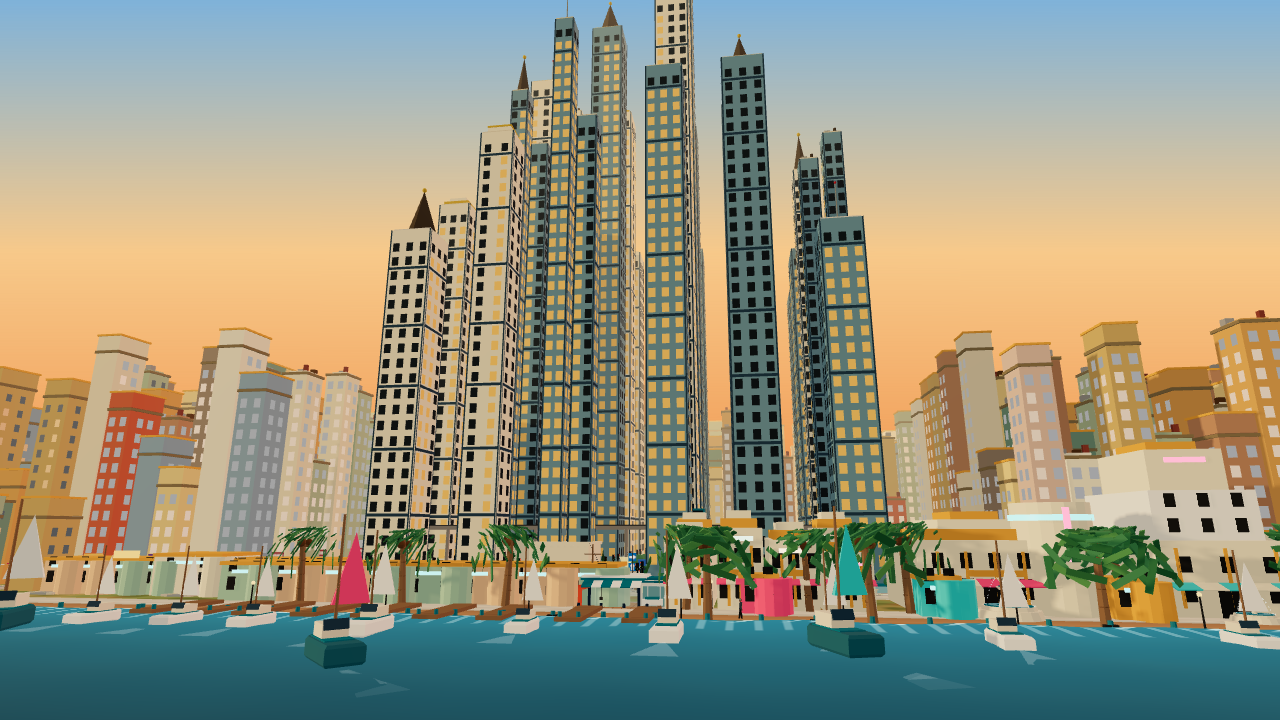
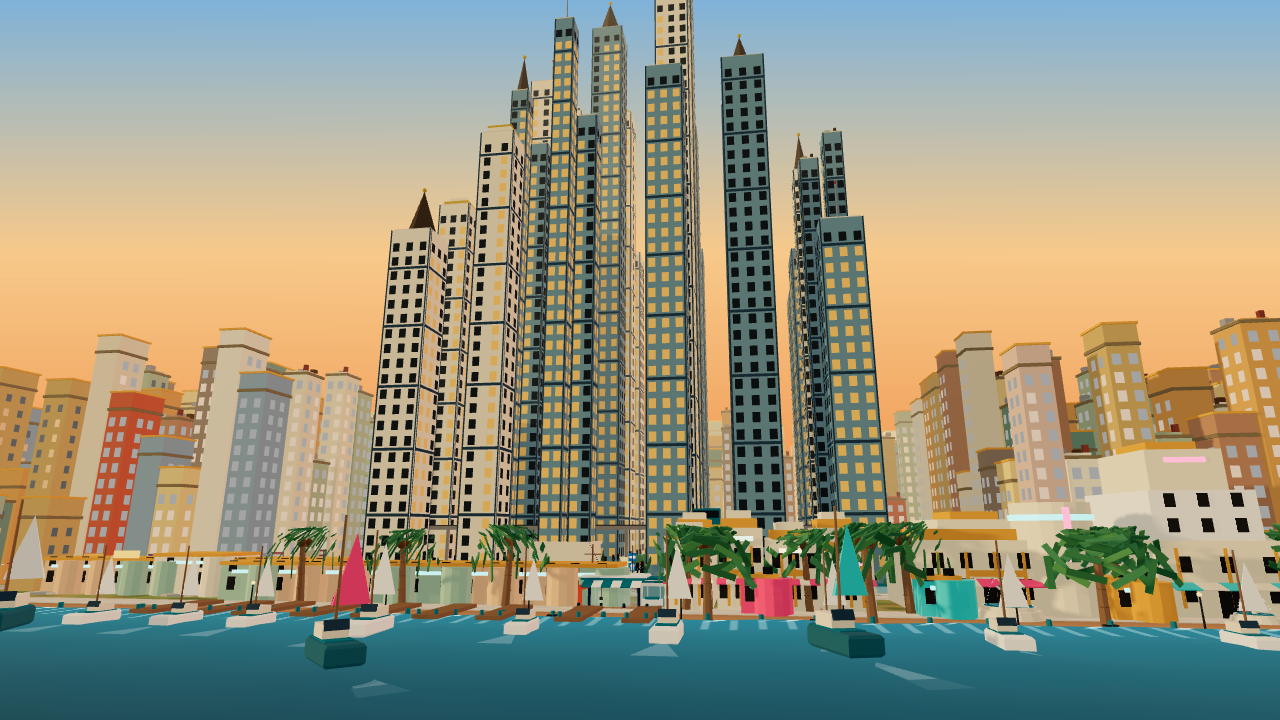
2c residential ring east + west: 295 buildings (Xian 21 Nov 17:58)
- RESIDENTIAL_DEF: townhouse rows 2-6 floors, depth 3.0, width 2.2-2.8; wide 20-unit blocks + shallow 7-deep blocks (two rows each); east x 96..120 (11 blocks) + west x -120..-96 (14 blocks); 2 park blocks
- North residential deferred to 2d: the north strip sits on the hill ridges (z -90..-128) — buildings would be buried; ridges move north in 2d (~150 more, completing 450+)
- Total buildings now 886 (36 towers + 364 + 86 + 65 + 40 + 295)
- Draw calls UNCHANGED by 295 buildings (whole-city 593, <600) — generator merges into shared pools
- Tests: zone overlap PASS (4 zones, residential 295/100 road rects, 0 problems); CBD overlap PASS; CBD blocks 30/30
- verify 9 views: city 593, top 436, drive 393 (<450), oblique 632, bay 611; 0 errors, 26 req, 0 external

diff --git a/game/src/city.js b/game/src/city.js
@@ -27,7 +27,7 @@ import { buildNewDistricts } from './districts.js';
 import { buildCBD } from './cbd.js';
 import { buildCBDGrid } from './cbd-grid.js';
 import { buildCommercialRing, buildSignAtlas } from './commercial.js';
-import { createPools, mergePools, buildZoneInto, RING_EXT_DEF, OLD_TOWN_EXT_DEF, PROMENADE_EXT_DEF } from './blocks.js';
+import { createPools, mergePools, buildZoneInto, RING_EXT_DEF, OLD_TOWN_EXT_DEF, PROMENADE_EXT_DEF, RESIDENTIAL_DEF } from './blocks.js';
 
 // Shared window material for the deco facades: emissive intensity is
 // raised at night by the game (windows light up at dusk).
@@ -555,10 +555,13 @@ export function buildDistrict4() {
   // --- NEW PLAN 2b: promenade extension + old town west (same pools) ---
   const promExt = buildZoneInto(PROMENADE_EXT_DEF, zonePools, zoneAtlas);
   const otExt = buildZoneInto(OLD_TOWN_EXT_DEF, zonePools, zoneAtlas);
+  // --- NEW PLAN 2c: residential ring, east + west (same pools) ---
+  // North residential deferred to 2d (the ridges sit on that land).
+  const res = buildZoneInto(RESIDENTIAL_DEF, zonePools, zoneAtlas);
   const ringExtGroup = mergePools(zonePools, zoneAtlas, roads.roadMat);
   group.add(ringExtGroup);
-  colliders.push(...ringExt.colliders, ...promExt.colliders, ...otExt.colliders);
-  tickers.push(...ringExt.tickers, ...promExt.tickers, ...otExt.tickers);
+  colliders.push(...ringExt.colliders, ...promExt.colliders, ...otExt.colliders, ...res.colliders);
+  tickers.push(...ringExt.tickers, ...promExt.tickers, ...otExt.tickers, ...res.tickers);
 
   // --- ground detail: DELETED in the GRID REBUILD — the grass tufts
   // stood at z 9.5..11.5, which is CBD block row 4 + the south street
@@ -568,10 +571,10 @@ export function buildDistrict4() {
   return {
     group, colliders, tickers, roads,
     report,
-    lanes: [...trafficLanes(), ...nd.lanes, ...ring.lanes, ...ringExt.lanes, ...promExt.lanes, ...otExt.lanes],
-    pedPaths: [...nd.pedPaths, ...ring.pedPaths, ...ringExt.pedPaths, ...promExt.pedPaths, ...otExt.pedPaths],
-    minimap: [...minimapLines(), ...ringExt.minimap, ...promExt.minimap, ...otExt.minimap],
-    ringExt, promExt, otExt,
+    lanes: [...trafficLanes(), ...nd.lanes, ...ring.lanes, ...ringExt.lanes, ...promExt.lanes, ...otExt.lanes, ...res.lanes],
+    pedPaths: [...nd.pedPaths, ...ring.pedPaths, ...ringExt.pedPaths, ...promExt.pedPaths, ...otExt.pedPaths, ...res.pedPaths],
+    minimap: [...minimapLines(), ...ringExt.minimap, ...promExt.minimap, ...otExt.minimap, ...res.minimap],
+    ringExt, promExt, otExt, res,
     // Spawn points live in anchors.js (one source of truth for every
     // gameplay position) — the district just carries them through.
     spawnPlayer: { x: ANCHORS.player_spawn.x, z: ANCHORS.player_spawn.z, angle: ANCHORS.player_spawn.angle },

diff --git a/game/src/blocks.js b/game/src/blocks.js
@@ -689,3 +689,57 @@ export const PROMENADE_EXT_DEF = {
     { a: { x: -95, z: 33 }, b: { x: -64, z: 33 } },
   ],
 };
+
+// --- zone definitions: 2c residential ring, east + west (Xian 21 Nov 17:58) ---
+// Apartments + townhouses 2-6 floors, terraced rows (depth 3.0,
+// width 2.2-2.8), courtyards in the block middles, small parks.
+// Wide blocks (20, one column per strip) and shallow blocks (7 deep,
+// E-W streets every 9) so every block holds two rows — the densest
+// the generator does. East x 96..120, z -88..12 (11 blocks); west
+// x -120..-96, z -88..35 (14 blocks); 2 park blocks.
+// The NORTH residential (z -105..-88) is NOT here: the whole north
+// strip sits on the hill ridges (z -90..-128) — the buildings would
+// be buried in the hillside. It comes in 2d, when the ridges move
+// north. The east rect ends at z 12 so its last block stays clear
+// of the quay (z 12.7, x -96..108). No roads.js street crosses these
+// rects, so no gaps.
+export const RESIDENTIAL_DEF = {
+  id: 'residential', seed: 20261121, style: 'townhouse', floors: [2, 6],
+  palette: PALETTE_TOWNHOUSE, shopfronts: false, spacing: 3.2,
+  idPrefix: 'res', fill: 'rows', depth: 3.0, houseW: [2.2, 2.8],
+  rects: [
+    {
+      x0: 96, z0: -88, x1: 120, z1: 12,
+      ns: [{ x: 97, w: 2 }, { x: 119, w: 2 }].map((s) => ({ ...s, kind: 'street' })),
+      ew: [-87, -78, -69, -60, -51, -42, -33, -24, -15, -6, 3].map((z) => ({ z, w: 2, kind: 'street' })),
+    },
+    {
+      x0: -120, z0: -88, x1: -96, z1: 35,
+      ns: [{ x: -119, w: 2 }, { x: -97, w: 2 }].map((s) => ({ ...s, kind: 'street' })),
+      ew: [-87, -78, -69, -60, -51, -42, -33, -24, -15, -6, 3, 12, 21, 30].map((z) => ({ z, w: 2, kind: 'street' })),
+    },
+  ],
+  parks: [4, 15],
+  roadsNs: [
+    { x: 97, w: 2, kind: 'street', z0: -87, z1: 3 },
+    { x: 119, w: 2, kind: 'street', z0: -87, z1: 3 },
+    { x: -119, w: 2, kind: 'street', z0: -87, z1: 30 },
+    { x: -97, w: 2, kind: 'street', z0: -87, z1: 30 },
+  ],
+  roadsEw: [
+    ...[-87, -78, -69, -60, -51, -42, -33, -24, -15, -6, 3].map((z) => ({ z, w: 2, kind: 'street', x0: 96, x1: 120 })),
+    ...[-87, -78, -69, -60, -51, -42, -33, -24, -15, -6, 3, 12, 21, 30].map((z) => ({ z, w: 2, kind: 'street', x0: -120, x1: -96 })),
+  ],
+  lanes: [
+    { name: 'res-east', x0: 97, z0: -87, x1: 119, z1: 3, speed: 6 },
+    { name: 'res-west', x0: -119, z0: -87, x1: -97, z1: 30, speed: 6 },
+  ],
+  pedPaths: [
+    { a: { x: 98.2, z: -87 }, b: { x: 98.2, z: 3 } },
+    { a: { x: 117.8, z: -87 }, b: { x: 117.8, z: 3 } },
+    { a: { x: -117.8, z: -87 }, b: { x: -117.8, z: 30 } },
+    { a: { x: -98.2, z: -87 }, b: { x: -98.2, z: 30 } },
+    { a: { x: 97, z: -42 }, b: { x: 119, z: -42 } },
+    { a: { x: -119, z: -42 }, b: { x: -97, z: -42 } },
+  ],
+};
